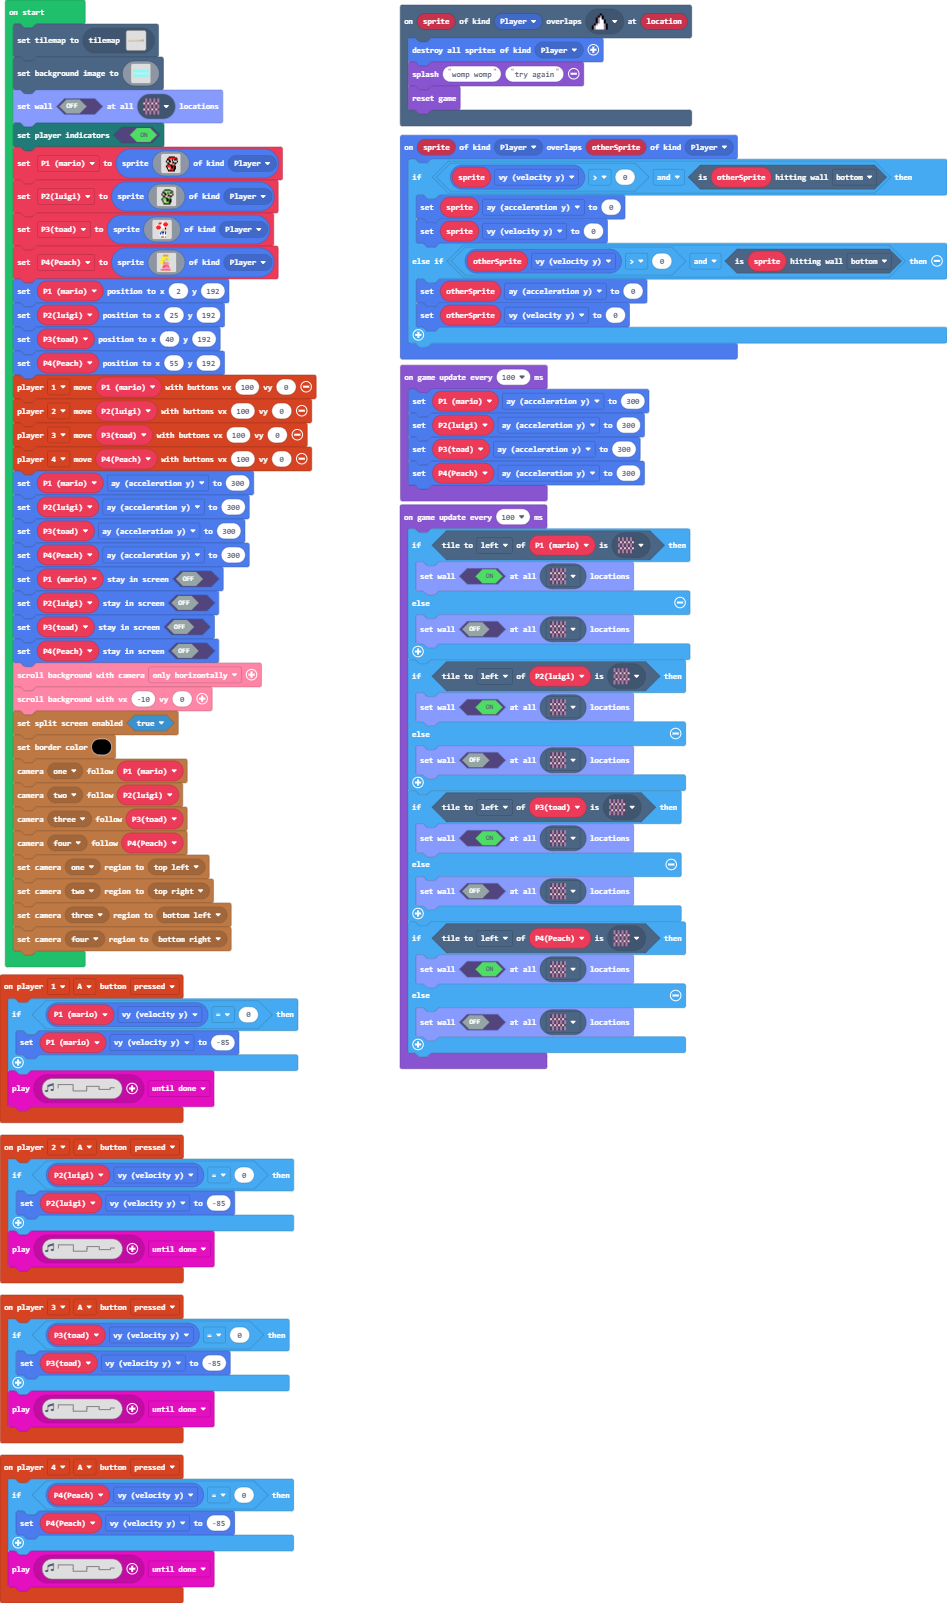
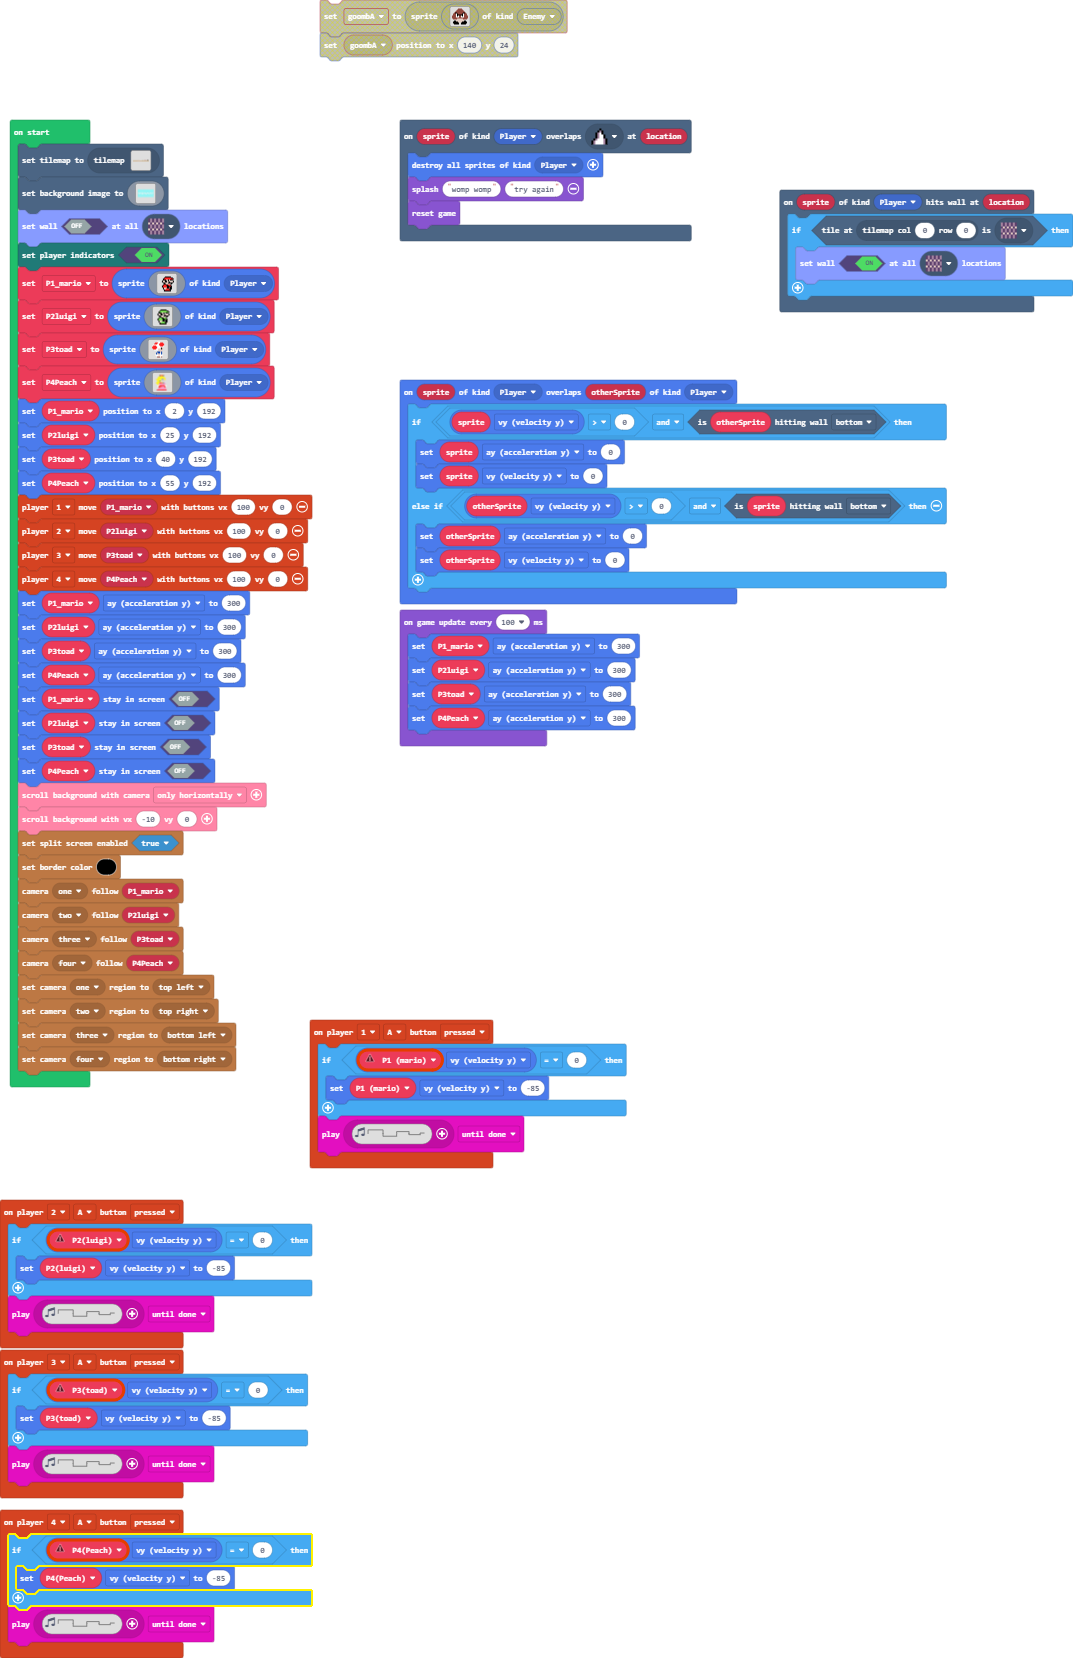
Working physics + goomba

diff --git a/tilemap.g.ts b/tilemap.g.ts
@@ -76,7 +76,7 @@ namespace myTiles {
 . . . . . . . . . . . . . . . . 
 `, [myTiles.transparency16], TileScale.Sixteen);
             case "level1":
[2 lines of base64/hex data omitted]
 ...............................................................................................................................................................................................................................................................
 ...............................................................................................................................................................................................................................................................
 ...............................................................................................................................................................................................................................................................

diff --git a/main.ts b/main.ts
@@ -1,6 +1,7 @@
 controller.player2.onButtonEvent(ControllerButton.A, ControllerButtonEvent.Pressed, function () {
-    if (P2luigi.vy == 0) {
-        P2luigi.vy = -85
+    let P2luigi2: Sprite = null
+    if (P2luigi2.vy == 0) {
+        P2luigi2.vy = -85
     }
     music.play(music.createSoundEffect(WaveShape.Square, 1, 2225, 123, 0, 500, SoundExpressionEffect.None, InterpolationCurve.Linear), music.PlaybackMode.UntilDone)
 })
@@ -19,27 +20,26 @@ sprites.onOverlap(SpriteKind.Player, SpriteKind.Player, function (sprite, otherS
     }
 })
 controller.player4.onButtonEvent(ControllerButton.A, ControllerButtonEvent.Pressed, function () {
-    if (P4Peach.vy == 0) {
-        P4Peach.vy = -85
+    let P4Peach2: Sprite = null
+    if (P4Peach2.vy == 0) {
+        P4Peach2.vy = -85
     }
     music.play(music.createSoundEffect(WaveShape.Square, 1, 2225, 123, 0, 500, SoundExpressionEffect.None, InterpolationCurve.Linear), music.PlaybackMode.UntilDone)
 })
 controller.player1.onButtonEvent(ControllerButton.A, ControllerButtonEvent.Pressed, function () {
-    if (P1_mario.vy == 0) {
-        P1_mario.vy = -85
+    let P1_mario2: Sprite = null
+    if (P1_mario2.vy == 0) {
+        P1_mario2.vy = -85
     }
     music.play(music.createSoundEffect(WaveShape.Square, 1, 2225, 123, 0, 500, SoundExpressionEffect.None, InterpolationCurve.Linear), music.PlaybackMode.UntilDone)
 })
 controller.player3.onButtonEvent(ControllerButton.A, ControllerButtonEvent.Pressed, function () {
-    if (P3toad.vy == 0) {
-        P3toad.vy = -85
+    let P3toad2: Sprite = null
+    if (P3toad2.vy == 0) {
+        P3toad2.vy = -85
     }
     music.play(music.createSoundEffect(WaveShape.Square, 1, 2225, 123, 0, 500, SoundExpressionEffect.None, InterpolationCurve.Linear), music.PlaybackMode.UntilDone)
 })
-let P4Peach: Sprite = null
-let P3toad: Sprite = null
-let P2luigi: Sprite = null
-let P1_mario: Sprite = null
 tiles.setCurrentTilemap(tilemap`level1`)
 scene.setBackgroundImage(img`
     999999999999999999999999999999999999999999999999999999999999999999999999999999999999999999999999999999999999999999999999999999999999999999999999999999999999999999999999999999999999999999999999999999999999999999999999999999999999999999999999999999999999999
@@ -165,10 +165,10 @@ scene.setBackgroundImage(img`
     `)
 tileUtil.setWalls(assets.tile`myTile2`, false)
 mp.setPlayerIndicatorsVisible(true)
-P1_mario = sprites.create(assets.image`myImage`, SpriteKind.Player)
-P2luigi = sprites.create(assets.image`myImage0`, SpriteKind.Player)
-P3toad = sprites.create(assets.image`myImage1`, SpriteKind.Player)
-P4Peach = sprites.create(assets.image`myImage2`, SpriteKind.Player)
+let P1_mario = sprites.create(assets.image`myImage`, SpriteKind.Player)
+let P2luigi = sprites.create(assets.image`myImage0`, SpriteKind.Player)
+let P3toad = sprites.create(assets.image`myImage1`, SpriteKind.Player)
+let P4Peach = sprites.create(assets.image`myImage2`, SpriteKind.Player)
 P1_mario.setPosition(2, 192)
 P2luigi.setPosition(25, 192)
 P3toad.setPosition(40, 192)
